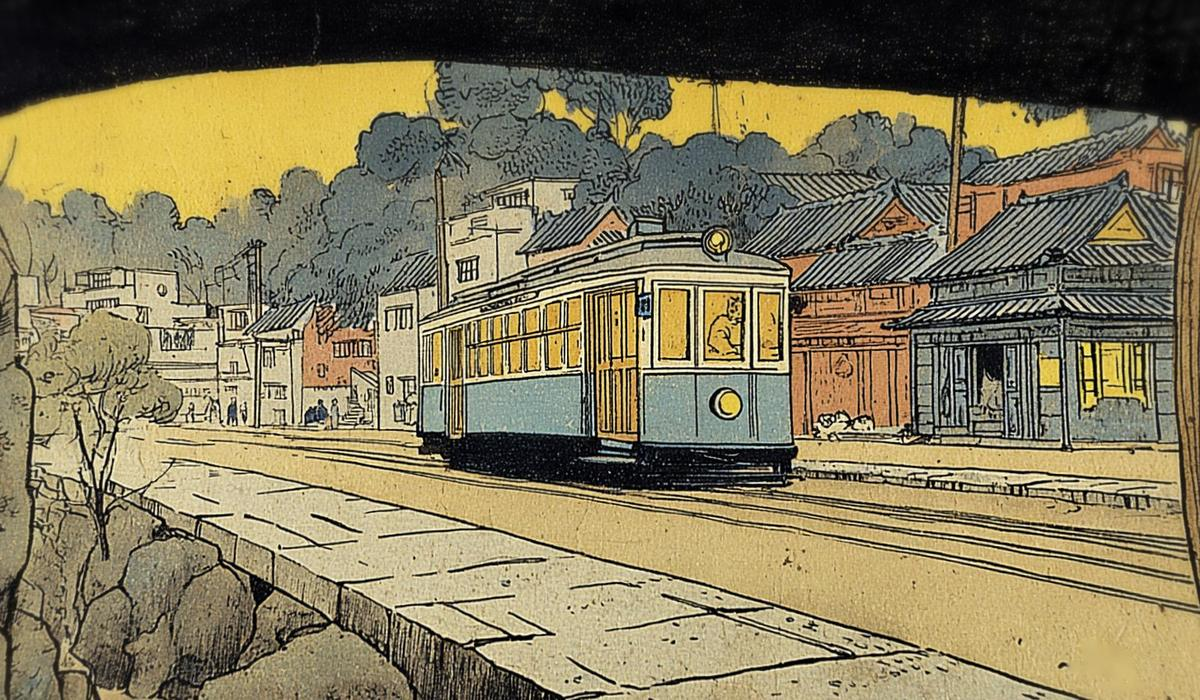
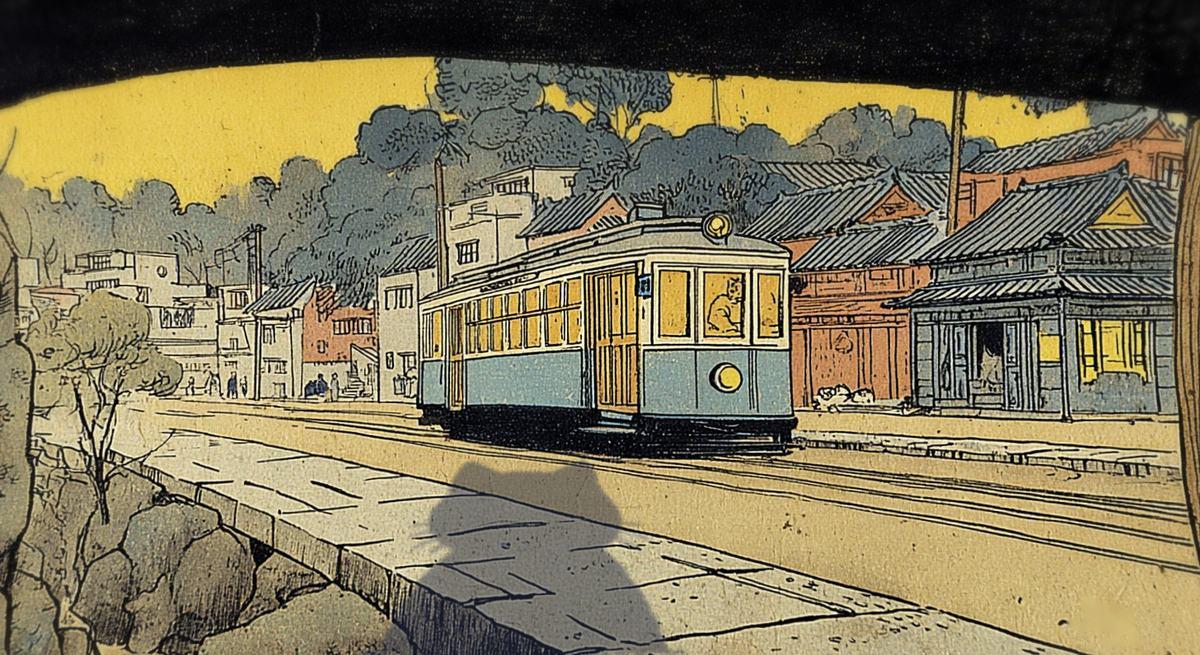
시안: 심묘 얼굴 클로즈업 전환 · 발밑 그림자 · 연재만화 한 칸
Claude-Session: https://claude.ai/code/session_01X1y5x5ur2CZT5SHiYxRsCA

diff --git a/proto/lens/index.html b/proto/lens/index.html
@@ -83,6 +83,14 @@ aside{display:grid;gap:18px;min-width:0}
 .next button:focus-visible,.post:focus-visible{outline:2px solid var(--honey);outline-offset:3px}
 .toast{font:13px/1.4 var(--ui);color:var(--seal)}
 @media (max-width:600px){.hint{font-size:15px;top:58%;padding:5px 8px 4px}.tag{font-size:10.5px;padding:4px 6px}.say{font-size:15px;max-width:62%;left:3%;bottom:4%;padding:6px 9px 4px}.note{font-size:12.5px;max-width:78%;padding:9px 10px}.spot{width:32px;height:32px;margin:-16px 0 0 -16px;line-height:28px;font-size:13px}.back{font-size:12px;padding:7px 9px}}
+.scene .cface{position:absolute;inset:auto;left:50%;top:50%;width:26%;height:auto;object-fit:contain;transform:translate(-50%,-50%) scale(.7);opacity:0;pointer-events:none;transition:opacity .25s,transform .45s cubic-bezier(.2,1.4,.4,1);filter:drop-shadow(0 10px 18px rgba(0,0,0,.35))}
+.scene .cface.on{opacity:1;transform:translate(-50%,-50%) scale(1)}
+.comic{display:grid;grid-template-columns:110px 1fr;gap:12px;align-items:center;border:2px solid var(--ink);background:var(--card);padding:10px 12px}
+.comic img{width:110px;height:auto;display:block}
+.comic p{margin:0;font:19px/1.35 var(--hand);color:var(--ink)}
+.comic small{display:block;font:11.5px/1.4 var(--ui);color:var(--ink2);margin-top:4px}
+.pawnote{position:absolute;left:40%;top:86%;font:12px/1 var(--ui);color:var(--card);background:rgba(33,28,23,.75);padding:5px 7px;opacity:0;transition:opacity .4s 1.6s;pointer-events:none}
+.open .pawnote{opacity:1}
 @media (prefers-reduced-motion:reduce){*{animation:none!important;transition:none!important}}
 </style>
 
@@ -106,6 +114,8 @@ aside{display:grid;gap:18px;min-width:0}
         <img src="bw.jpg" alt="1930년대 종로 네거리 사진엽서. 전차와 행인들 사이로 까만 고양이가 전찻길을 건넌다">
         <img class="color" id="color" src="color.jpg" alt="심묘의 눈으로 본 정류장. 벤치 밑 바닥 높이에서 전차와 돌바닥이 보인다">
         <button class="cat" id="cat" aria-label="심묘의 눈으로 보기"></button>
+        <img class="cface" id="face" src="face.png" alt="">
+        <span class="pawnote">발밑 그림자가 심묘</span>
         <span class="hint" id="hint">심묘 눈을 누르시오</span>
         <span class="tag l">사람들의 눈 · 실제 사진</span>
         <button class="spot" id="ear" style="left:63%;top:52%" aria-label="귀 — 이곳의 소리">귀</button>
@@ -146,6 +156,11 @@ aside{display:grid;gap:18px;min-width:0}
         <small>『황성신문』 1899년 5월 5일 「전차시행」 · 국가기록원</small>
       </section>
 
+      <section>
+        <div class="k2">심묘 연재만화 · 이 골목의 한 칸</div>
+        <div class="comic"><img src="comic_cat.png" alt="하품하는 심묘"><div><p>전차 지붕은 따뜻하오.<br>차표는 안 끈소.</p><small>골목을 떠날 때 한 칸씩 모여 연재만화가 되오</small></div></div>
+      </section>
+
       <div class="lbls"><span class="lb">실제 사진</span><span class="lb">재현 그림</span><span class="lb">지어낸 이야기</span></div>
     </aside>
   </div>
@@ -177,8 +192,10 @@ aside{display:grid;gap:18px;min-width:0}
       if(t<1)raf=requestAnimationFrame(f);
     })(t0);
   }
-  function openEye(){ if(open)return; open=true; sc.classList.add('open'); run(true); }
-  function closeEye(){ if(!open)return; open=false; sc.classList.remove('open'); note.hidden=true; run(false); }
+  var face=document.getElementById('face');
+  function openEye(){ if(open)return; open=true; X=50;Y=44; if(reduce){sc.classList.add('open');run(true);return}
+    face.classList.add('on'); document.getElementById('hint').style.opacity=0; setTimeout(function(){sc.classList.add('open'); run(true);},650); setTimeout(function(){face.classList.remove('on')},1100); }
+  function closeEye(){ if(!open)return; open=false; sc.classList.remove('open'); note.hidden=true; run(false); setTimeout(function(){X=37.5;Y=75;document.getElementById('hint').style.opacity='';},1600); }
   cat.addEventListener('click',openEye);
   back.addEventListener('click',closeEye);
   var NOTES={ear:'<b>귀</b> — 땡땡, 전차 종소리. 쇠 바퀴가 레일을 긁는 소리, 웅성거리는 구경꾼들.',
